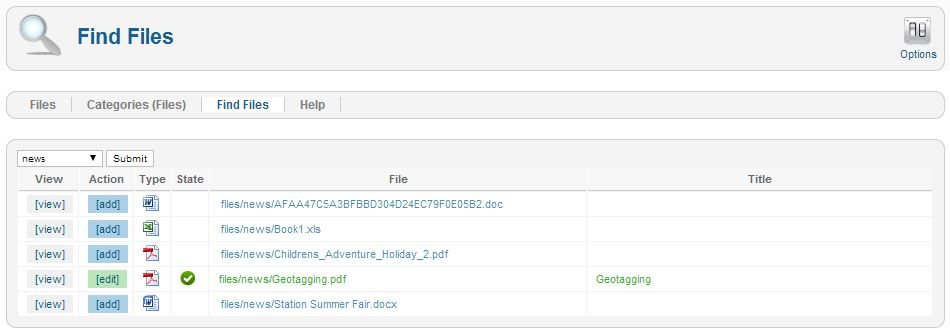
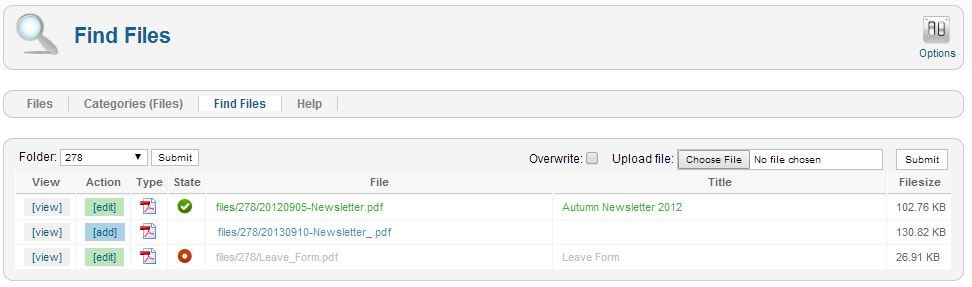
updated help files

diff --git a/com_filelinks_j25/views/help/tmpl/component.php b/com_filelinks_j25/views/help/tmpl/component.php
@@ -48,6 +48,7 @@
 
 <p>Hint: you can copy the path of a file by clicking on the filename. Use this if you have uploaded a new document to replace an old version. Copy the filepath of the new version, click Edit next to the old version and paste the new path into the filepath edit box
 </p><img src="<?php echo JURI::root();?>media/com_filelinks/help/find_files_copy.jpg" alt="Find Files copy" title="Find Files copy" />
+<p>You can now upload files (restricted to those types set in options) to the current folder. The filename will be cleaned - strange charcters removed and spaces replaced by hyphens. If the file exists you will be given a warning unless you have checked the overwrite box</p> 
 
 <h2>Help</h2>
 
@@ -56,7 +57,6 @@
 <h2>TODO</h2>
 
 <ul>
-<li>File uploads - not sure I will add this</li>
 <li>Attach image to item</li>
 <li>Show files with wrong path in orange</li>
 </ul>

diff --git a/com_filelinks_j25/views/help/tmpl/content.php b/com_filelinks_j25/views/help/tmpl/content.php
@@ -108,6 +108,7 @@ Options can be in any order. The available options at present are:</p>
 <li><strong>noicon</strong> - suppresses the icon for this one item</li>
 <li><strong>desc</strong> - adds the item description after the link</li>
 <li><strong>nodesc</strong> - suppresses the item description</li>
+<li><strong>size</strong> - adds the filesize after the link</li>
 </ul>
 
 <p>&nbsp;</p><img src="<?php echo JURI::root();?>media/com_filelinks/help/single.jpg" alt="single article" title="single article" />

diff --git a/com_filelinks_j25/readme.md b/com_filelinks_j25/readme.md
@@ -52,7 +52,6 @@ this document
 
 * File uploads - not sure I will add this
 * Attach image to item
-* Show files with wrong path in orange
 
 ## Optional extras
 
